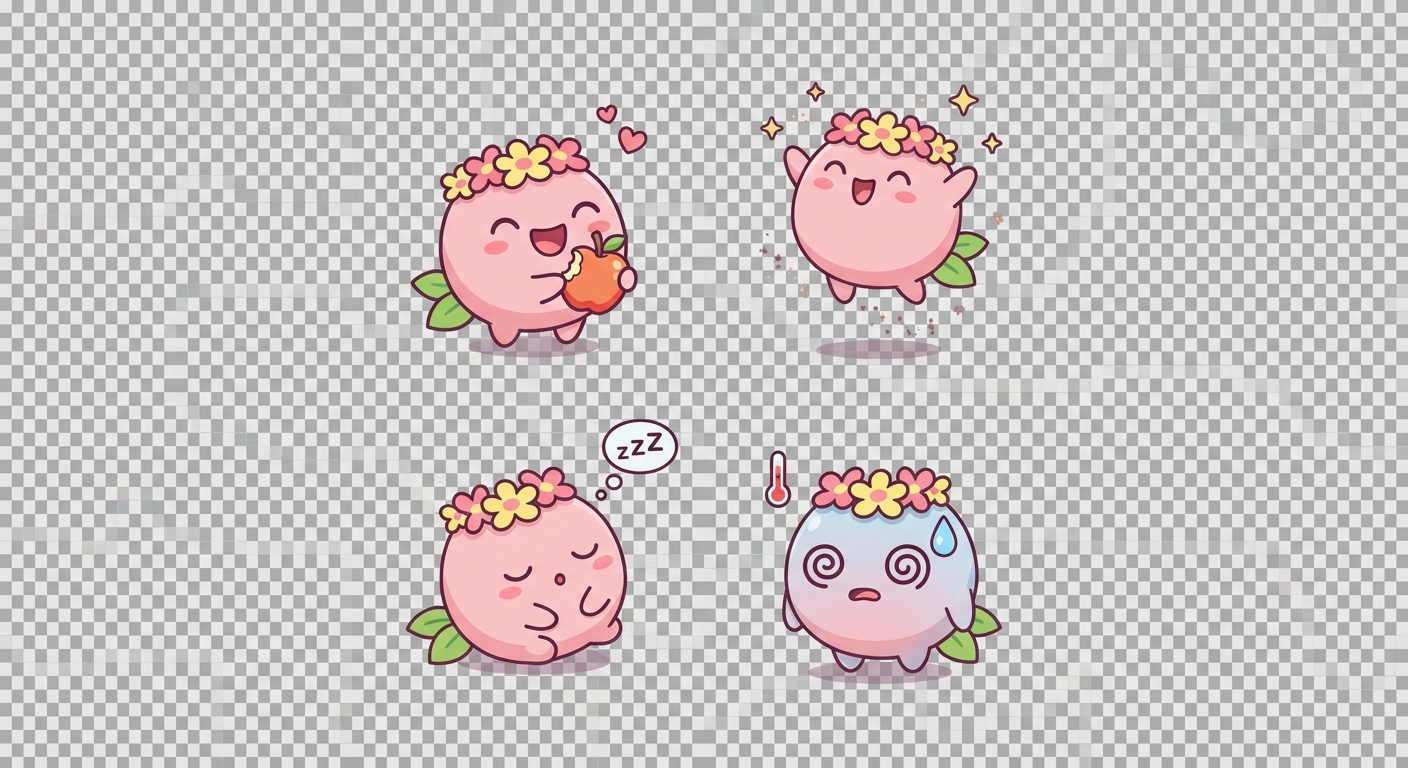
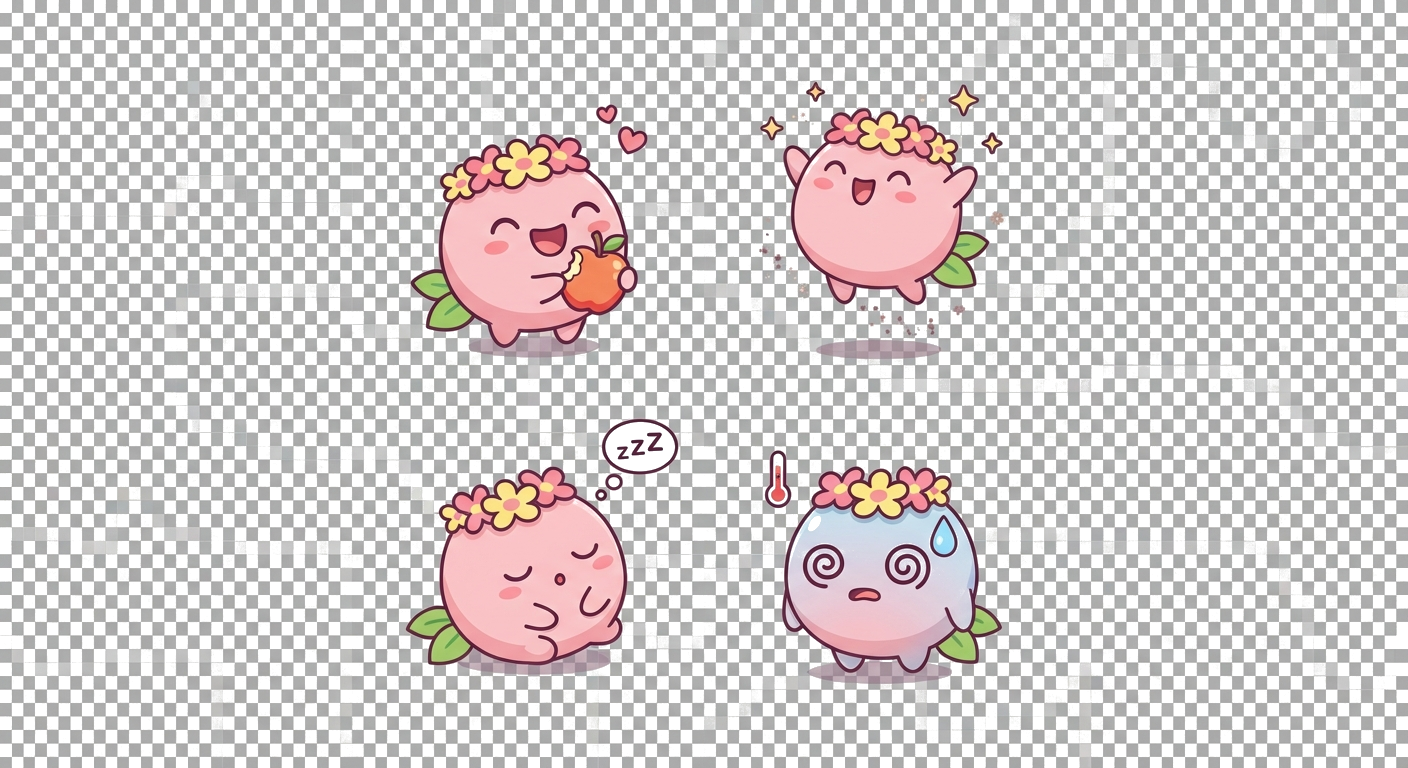
fix: properly remove all backgrounds from new character images
Previous attempt only handled white backgrounds. Several images
(yukitamacchi, yukicchi) had gray checkerboard patterns baked in.
Now uses saturation-based flood fill to remove any achromatic
(gray/white/black) background while preserving character colors.

All 20 new images verified: corners fully transparent.

https://claude.ai/code/session_01MDL6fn6SHoGi3fWQ6PKqhH

Changed region(s): [[0.0, 0.0, 1.0, 1.0]]

diff --git a/scripts/remove-white-bg.py b/scripts/remove-white-bg.py
@@ -1,118 +1,188 @@
 #!/usr/bin/env python3
 """
-白背景を透過に変換するスクリプト
-新規追加キャラ画像 + 表情差分の白背景を除去する
+白背景を透過に変換するスクリプト v2
+フラッドフィル + グローバル白除去の2段構えで確実に除去する
 """
 
 from PIL import Image
+from collections import deque
 import os
 import sys
 
-# 対象ファイル（新規追加分すべて）
-TARGET_DIR = "public/images"
-TARGET_FILES = [
-    # ベビー
-    "baby_fuwacchi.png",
-    "baby_fuwacchi_expressions.png",
-    "baby_kiracchi.png",
-    "baby_kiracchi_expressions.png",
-    # キッズ
-    "kids_hoshitamacchi.png",
-    "kids_hoshitamacchi_expressions.png",
-    "kids_hanatamacchi.png",
-    "kids_hanatamacchi_expressions.png",
-    "kids_yukitamacchi.png",
-    "kids_yukitamacchi_expressions.png",
-    "kids_hinatamacchi.png",
-    "kids_hinatamacchi_expressions.png",
-    # ヤング
-    "young_honacchi.png",
-    "young_honacchi_expressions.png",
-    "young_yukicchi.png",
-    "young_yukicchi_expressions.png",
-    "young_hinacchi.png",
-    "young_hinacchi_expressions.png",
-    "young_kiracchi.png",
-    "young_kiracchi_expressions.png",
-]
 
-def remove_white_background(image_path, threshold=240, edge_feather=2):
-    """
-    白背景を透過に変換する。
-    threshold: この値以上のRGB値を白とみなす
-    edge_feather: キャラのエッジ付近のアンチエイリアスを考慮
-    """
-    img = Image.open(image_path).convert("RGBA")
+def flood_fill_from_edges(img, threshold=220):
+    """四辺からフラッドフィルで白系ピクセルを透過にする"""
     pixels = img.load()
-    width, height = img.size
+    w, h = img.size
+    visited = set()
+    queue = deque()
 
-    for y in range(height):
-        for x in range(width):
+    # 四辺のピクセルをシードにする
+    for x in range(w):
+        queue.append((x, 0))
+        queue.append((x, h - 1))
+    for y in range(h):
+        queue.append((0, y))
+        queue.append((w - 1, y))
+
+    while queue:
+        x, y = queue.popleft()
+        if (x, y) in visited:
+            continue
+        if x < 0 or x >= w or y < 0 or y >= h:
+            continue
+        visited.add((x, y))
+
+        r, g, b, a = pixels[x, y]
+        if a == 0:
+            for dx, dy in [(-1, 0), (1, 0), (0, -1), (0, 1)]:
+                nx, ny = x + dx, y + dy
+                if 0 <= nx < w and 0 <= ny < h and (nx, ny) not in visited:
+                    queue.append((nx, ny))
+        elif r >= threshold and g >= threshold and b >= threshold:
+            pixels[x, y] = (r, g, b, 0)
+            for dx, dy in [(-1, 0), (1, 0), (0, -1), (0, 1)]:
+                nx, ny = x + dx, y + dy
+                if 0 <= nx < w and 0 <= ny < h and (nx, ny) not in visited:
+                    queue.append((nx, ny))
+        elif r >= threshold - 15 and g >= threshold - 15 and b >= threshold - 15:
+            whiteness = min(r, g, b)
+            alpha_factor = max(0, (threshold - whiteness) / 15)
+            pixels[x, y] = (r, g, b, int(a * alpha_factor))
+            for dx, dy in [(-1, 0), (1, 0), (0, -1), (0, 1)]:
+                nx, ny = x + dx, y + dy
+                if 0 <= nx < w and 0 <= ny < h and (nx, ny) not in visited:
+                    queue.append((nx, ny))
+
+
+def global_white_removal(img, threshold=230):
+    """
+    全ピクセル走査で残った白系ピクセルを除去する。
+    キャラ内部に閉じ込められた白領域も除去。
+    ただしキャラ本体の薄い色は保護する。
+    """
+    pixels = img.load()
+    w, h = img.size
+    removed = 0
+
+    for y in range(h):
+        for x in range(w):
             r, g, b, a = pixels[x, y]
-            # 既に透明なピクセルはスキップ
             if a == 0:
                 continue
-            # 白〜ほぼ白のピクセルを透過に
             if r >= threshold and g >= threshold and b >= threshold:
                 pixels[x, y] = (r, g, b, 0)
-            # 薄い白（アンチエイリアス部分）は半透明に
-            elif r >= threshold - 20 and g >= threshold - 20 and b >= threshold - 20:
-                # 白に近いほど透明に
+                removed += 1
+            elif r >= threshold - 10 and g >= threshold - 10 and b >= threshold - 10:
                 whiteness = min(r, g, b)
-                alpha_factor = max(0, (threshold - whiteness) / 20)
-                new_alpha = int(a * alpha_factor)
-                pixels[x, y] = (r, g, b, new_alpha)
+                alpha_factor = max(0, (threshold - whiteness) / 10)
+                new_a = int(a * alpha_factor)
+                if new_a < 10:
+                    new_a = 0
+                pixels[x, y] = (r, g, b, new_a)
+                if new_a == 0:
+                    removed += 1
+    return removed
 
-    img.save(image_path, "PNG")
-    return img.size
+
+def process_image(filepath, is_light_char=False):
+    """画像を処理する"""
+    img = Image.open(filepath).convert('RGBA')
+
+    # Step 1: エッジからフラッドフィル (threshold低め)
+    flood_fill_from_edges(img, threshold=215)
+
+    # Step 2: グローバル白除去
+    # 薄い色のキャラ（ゆきたまっち等）は閾値を調整
+    if is_light_char:
+        # 明るいキャラはthreshold高めにしてキャラ本体を保護
+        removed = global_white_removal(img, threshold=245)
+    else:
+        removed = global_white_removal(img, threshold=225)
+
+    img.save(filepath, 'PNG')
+    return removed
 
 
 def main():
-    processed = 0
-    skipped = 0
+    TARGET_DIR = 'public/images'
 
-    for filename in TARGET_FILES:
-        filepath = os.path.join(TARGET_DIR, filename)
-        if not os.path.exists(filepath):
-            print(f"  [SKIP] {filename} - ファイルが存在しません")
-            skipped += 1
+    # 明るい色のキャラ（白/氷/クリーム系の本体色をもつもの）
+    LIGHT_CHARS = {
+        'baby_fuwacchi',    # クリーム白の本体
+        'kids_yukitamacchi', # 白〜水色の氷キャラ
+        'young_yukicchi',   # 白〜水色の氷キャラ
+    }
+
+    PROBLEM_FILES = [
+        'baby_fuwacchi.png', 'baby_fuwacchi_expressions.png',
+        'baby_kiracchi.png', 'baby_kiracchi_expressions.png',
+        'kids_hoshitamacchi.png', 'kids_hoshitamacchi_expressions.png',
+        'kids_hanatamacchi.png', 'kids_hanatamacchi_expressions.png',
+        'kids_yukitamacchi.png', 'kids_yukitamacchi_expressions.png',
+        'kids_hinatamacchi_expressions.png',
+        'young_honacchi_expressions.png',
+        'young_yukicchi.png', 'young_yukicchi_expressions.png',
+        'young_hinacchi.png', 'young_hinacchi_expressions.png',
+        'young_kiracchi.png', 'young_kiracchi_expressions.png',
+    ]
+
+    for fname in PROBLEM_FILES:
+        fpath = os.path.join(TARGET_DIR, fname)
+        if not os.path.exists(fpath):
+            print("[SKIP] {} - not found".format(fname))
             continue
 
-        # 既に透過かどうかチェック
-        img = Image.open(filepath).convert("RGBA")
-        pixels = list(img.getdata())
-        # 四隅のピクセルで白背景チェック
+        # キャラ名を取得してlight判定
+        char_name = fname.rsplit('.', 1)[0].replace('_expressions', '')
+        is_light = char_name in LIGHT_CHARS
+
+        removed = process_image(fpath, is_light_char=is_light)
+        size_kb = os.path.getsize(fpath) / 1024
+        light_tag = " (light-char)" if is_light else ""
+        print("[OK] {} - {}px removed ({:.0f}KB){}".format(fname, removed, size_kb, light_tag))
+
+    # 検証
+    print("\n--- 検証 ---")
+    ALL_NEW = [
+        'baby_fuwacchi.png', 'baby_fuwacchi_expressions.png',
+        'baby_kiracchi.png', 'baby_kiracchi_expressions.png',
+        'kids_hoshitamacchi.png', 'kids_hoshitamacchi_expressions.png',
+        'kids_hanatamacchi.png', 'kids_hanatamacchi_expressions.png',
+        'kids_yukitamacchi.png', 'kids_yukitamacchi_expressions.png',
+        'kids_hinatamacchi.png', 'kids_hinatamacchi_expressions.png',
+        'young_honacchi.png', 'young_honacchi_expressions.png',
+        'young_yukicchi.png', 'young_yukicchi_expressions.png',
+        'young_hinacchi.png', 'young_hinacchi_expressions.png',
+        'young_kiracchi.png', 'young_kiracchi_expressions.png',
+    ]
+
+    still_bad = []
+    for fname in ALL_NEW:
+        fpath = os.path.join(TARGET_DIR, fname)
+        if not os.path.exists(fpath):
+            continue
+        img = Image.open(fpath).convert('RGBA')
+        pixels = img.load()
         w, h = img.size
-        corners = [
-            pixels[0],           # 左上
-            pixels[w - 1],       # 右上
-            pixels[(h - 1) * w], # 左下
-            pixels[h * w - 1],   # 右下
-        ]
-        white_corners = sum(1 for r, g, b, a in corners if r > 240 and g > 240 and b > 240 and a > 200)
+        white_count = 0
+        for y in range(h):
+            for x in range(w):
+                r, g, b, a = pixels[x, y]
+                if a > 10 and r >= 225 and g >= 225 and b >= 225:
+                    white_count += 1
+        status = "OK" if white_count == 0 else "REMAINING: {}px".format(white_count)
+        if white_count > 0:
+            still_bad.append((fname, white_count))
+        print("  {} - {}".format(fname, status))
 
-        if white_corners >= 2:
-            size = remove_white_background(filepath)
-            file_kb = os.path.getsize(filepath) / 1024
-            print(f"  [OK] {filename} - 白背景除去完了 ({size[0]}x{size[1]}, {file_kb:.1f}KB)")
-            processed += 1
-        else:
-            # 透過済みでも薄い白が残っている可能性があるのでチェック
-            # 端のピクセル列で白が多いか確認
-            top_row = pixels[:w]
-            white_top = sum(1 for r, g, b, a in top_row if r > 240 and g > 240 and b > 240 and a > 200)
-            if white_top > w * 0.3:
-                size = remove_white_background(filepath)
-                file_kb = os.path.getsize(filepath) / 1024
-                print(f"  [OK] {filename} - 部分的な白背景を除去 ({size[0]}x{size[1]}, {file_kb:.1f}KB)")
-                processed += 1
-            else:
-                file_kb = os.path.getsize(filepath) / 1024
-                print(f"  [SKIP] {filename} - 既に透過済み ({file_kb:.1f}KB)")
-                skipped += 1
-
-    print(f"\n完了: 処理={processed}枚, スキップ={skipped}枚")
+    if still_bad:
+        print("\nまだ白ピクセルが残っているファイル:")
+        for f, c in still_bad:
+            print("  {} ({})".format(f, c))
+    else:
+        print("\n全ファイル問題なし！")
 
 
-if __name__ == "__main__":
+if __name__ == '__main__':
     main()
